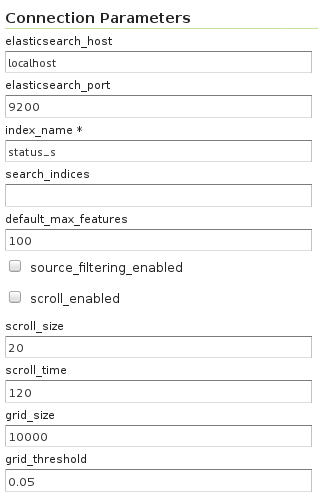
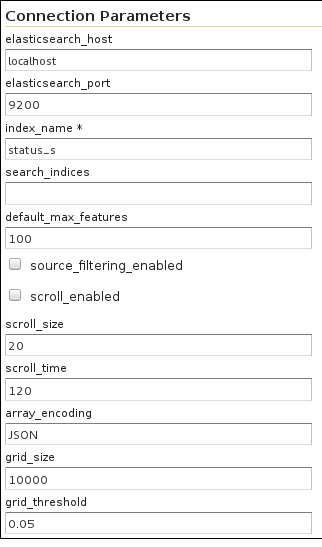
Support multiple array encoding strategies. URL encode array elements when joining string arrays. Bump to GeoServer version to 2.11.1.

Changed region(s): [[0.0, 0.0, 1.0, 0.9861], [0.9623, 0.1793, 0.9906, 0.239]]

diff --git a/gt-elasticsearch/src/main/java/mil/nga/giat/data/elasticsearch/ElasticFeatureReader.java b/gt-elasticsearch/src/main/java/mil/nga/giat/data/elasticsearch/ElasticFeatureReader.java
@@ -7,6 +7,7 @@ package mil.nga.giat.data.elasticsearch;
 import com.fasterxml.jackson.databind.ObjectMapper;
 import com.vividsolutions.jts.geom.Geometry;
 
+import mil.nga.giat.data.elasticsearch.ElasticDataStore.ArrayEncoding;
 import mil.nga.giat.shaded.es.common.joda.Joda;
 import mil.nga.giat.shaded.joda.time.format.DateTimeFormatter;
 
@@ -22,12 +23,16 @@ import org.opengis.feature.simple.SimpleFeatureType;
 import org.opengis.feature.type.AttributeDescriptor;
 
 import java.io.IOException;
+import java.io.UnsupportedEncodingException;
+import java.net.URLEncoder;
+import java.nio.charset.StandardCharsets;
 import java.util.Collections;
 import java.util.Date;
 import java.util.Iterator;
 import java.util.List;
 import java.util.Map;
 import java.util.logging.Logger;
+import java.util.stream.Collectors;
 
 /**
  * FeatureReader access to the Elasticsearch index.
@@ -43,6 +48,8 @@ public class ElasticFeatureReader implements FeatureReader<SimpleFeatureType, Si
     private final float maxScore;
 
     private final ObjectMapper mapper;
+
+    private final ArrayEncoding arrayEncoding;
 
     private SimpleFeatureBuilder builder;
 
@@ -74,6 +81,15 @@ public class ElasticFeatureReader implements FeatureReader<SimpleFeatureType, Si
                 this.aggregationIterator = aggregations.get(aggregationName).getBuckets().iterator();
             }
         }
+
+        if (contentState.getEntry() != null && contentState.getEntry().getDataStore() != null) {
+            final ElasticDataStore dataStore;
+            dataStore = (ElasticDataStore) contentState.getEntry().getDataStore();
+            this.arrayEncoding = dataStore.getArrayEncoding();
+        } else {
+            this.arrayEncoding = ArrayEncoding.valueOf((String) ElasticDataStoreFactory.ARRAY_ENCODING.getDefaultValue());
+        }
+
         this.mapper = new ObjectMapper();
     }
 
@@ -148,15 +164,17 @@ public class ElasticFeatureReader implements FeatureReader<SimpleFeatureType, Si
                 }
             } else if (values.size() == 1) {
                 builder.set(name, values.get(0));
-            } else if (String.class.isAssignableFrom(descriptor.getType().getBinding())) {
-                final StringBuilder valueBuilder = new StringBuilder();
-                for (final Object value : values) {
-                    valueBuilder.append(valueBuilder.length()>0 ? ";" : "");
-                    valueBuilder.append(value);
-                }
-                builder.set(name, valueBuilder.toString());
             } else if (!name.equals("_aggregation")) {
-                builder.set(name, values);
+                Object value = null;
+                switch (arrayEncoding) {
+                    case CSV:
+                        value = values.stream().map(i -> parserUtil.urlEncode(String.valueOf(i)))
+                            .collect(Collectors.joining(","));
+                        break;
+                    default:
+                        value = values;
+                }
+                builder.set(name, value);
             }
         }
 

diff --git a/gt-elasticsearch/src/test/java/mil/nga/giat/data/elasticsearch/ElasticFeatureFilterIT.java b/gt-elasticsearch/src/test/java/mil/nga/giat/data/elasticsearch/ElasticFeatureFilterIT.java
@@ -17,6 +17,8 @@
 
 package mil.nga.giat.data.elasticsearch;
 
+import java.net.URLDecoder;
+import java.nio.charset.StandardCharsets;
 import java.util.Arrays;
 import java.util.HashSet;
 import java.util.List;
@@ -55,6 +57,8 @@ import org.opengis.filter.identity.FeatureId;
 import org.opengis.filter.sort.SortBy;
 import org.opengis.filter.sort.SortOrder;
 import org.opengis.filter.spatial.BBOX;
+
+import mil.nga.giat.data.elasticsearch.ElasticDataStore.ArrayEncoding;
 
 public class ElasticFeatureFilterIT extends ElasticTestSupport {
 
@@ -273,9 +277,46 @@ public class ElasticFeatureFilterIT extends ElasticTestSupport {
             assertEquals(2, feature.getAttributeCount());
             String st = (String) feature.getAttribute("standard_ss");
             // changed from "IEEE 802.11b" in SolrFeatureSourceTest
-            assertTrue(st.startsWith("IEEE 802.11"));
+            assertTrue(st.contains("IEEE 802.11b"));
         } finally {
             iterator.close();
+        }
+    }
+
+    @Test
+    public void testReadStringArrayWithCsvStrategy() throws Exception {
+        init();
+        dataStore.setArrayEncoding(ArrayEncoding.CSV);
+        FilterFactory ff = dataStore.getFilterFactory();
+        PropertyIsEqualTo filter = ff.equals(ff.property("modem_b"), ff.literal(true));
+
+        SimpleFeatureCollection features = featureSource.getFeatures(filter);
+        assertEquals(8, features.size());
+
+        SimpleFeatureIterator iterator = features.features();
+        try {
+            assertTrue(iterator.hasNext());
+            SimpleFeature feature = iterator.next();
+            String st = (String) feature.getAttribute("standard_ss");
+            // changed from "IEEE 802.11b" in SolrFeatureSourceTest
+            assertTrue(URLDecoder.decode(st, StandardCharsets.UTF_8.toString()).startsWith("IEEE 802.11"));
+        } finally {
+            iterator.close();
+        }
+    }
+
+    @Test
+    public void testReadNumericArrayWithCsvStrategy() throws Exception {
+        init();
+        dataStore.setArrayEncoding(ArrayEncoding.CSV);
+        FilterFactory ff = dataStore.getFilterFactory();
+        PropertyIsBetween between = ff.between(ff.property("speed_is"), ff.literal(160), ff.literal(300));
+        SimpleFeatureCollection features = featureSource.getFeatures(between);
+        assertEquals(5, features.size());
+        SimpleFeatureIterator iterator = features.features();
+        while (iterator.hasNext()) {
+            SimpleFeature f = iterator.next();
+            assertFalse(f.getAttribute("speed_is") instanceof List);
         }
     }
 

diff --git a/gt-elasticsearch/src/main/java/mil/nga/giat/data/elasticsearch/ElasticDataStoreFactory.java b/gt-elasticsearch/src/main/java/mil/nga/giat/data/elasticsearch/ElasticDataStoreFactory.java
@@ -7,6 +7,8 @@ package mil.nga.giat.data.elasticsearch;
 import org.geotools.data.DataStore;
 import org.geotools.data.DataStoreFactorySpi;
 
+import mil.nga.giat.data.elasticsearch.ElasticDataStore.ArrayEncoding;
+
 import java.awt.RenderingHints.Key;
 import java.io.IOException;
 import java.io.Serializable;
@@ -41,6 +43,9 @@ public class ElasticDataStoreFactory implements DataStoreFactorySpi {
 
     public static final Param SCROLL_TIME_SECONDS = new Param("scroll_time", Integer.class, "Time to keep the scroll open in seconds (ignored if scroll_enabled=false)", false, 120);
 
+    public static final Param ARRAY_ENCODING = new Param("array_encoding", String.class, "Array encoding strategy. Allowed values are \"JSON\" (keep arrays) " 
+            + " and \"CSV\" (URL encode and join array elements).", false, "JSON");
+
     public static final Param GRID_SIZE = new Param("grid_size", Long.class, "Hint for Geohash grid size (nrow*ncol)", false, 10000l);
 
     public static final Param GRID_THRESHOLD = new Param("grid_threshold",  Double.class, 
@@ -56,6 +61,7 @@ public class ElasticDataStoreFactory implements DataStoreFactorySpi {
             SCROLL_ENABLED,
             SCROLL_SIZE,
             SCROLL_TIME_SECONDS,
+            ARRAY_ENCODING,
             GRID_SIZE,
             GRID_THRESHOLD
     };
@@ -112,6 +118,7 @@ public class ElasticDataStoreFactory implements DataStoreFactorySpi {
         final Integer hostPort = (Integer) getValue(HOSTPORT, params);
         final String indexName = (String) INDEX_NAME.lookUp(params);
         final String searchIndices = (String) SEARCH_INDICES.lookUp(params);
+        final String arrayEncoding = (String) getValue(ARRAY_ENCODING, params);
 
         final ElasticDataStore dataStore = new ElasticDataStore(searchHost, hostPort, indexName, searchIndices);
         dataStore.setDefaultMaxFeatures((Integer) getValue(DEFAULT_MAX_FEATURES, params));
@@ -119,6 +126,7 @@ public class ElasticDataStoreFactory implements DataStoreFactorySpi {
         dataStore.setScrollEnabled((Boolean)getValue(SCROLL_ENABLED, params));
         dataStore.setScrollSize(((Number)getValue(SCROLL_SIZE, params)).longValue());
         dataStore.setScrollTime((Integer)getValue(SCROLL_TIME_SECONDS, params));
+        dataStore.setArrayEncoding(ArrayEncoding.valueOf(arrayEncoding.toUpperCase()));
         dataStore.setGridSize((Long) GRID_SIZE.lookUp(params));
         dataStore.setGridThreshold((Double) GRID_THRESHOLD.lookUp(params));
         return dataStore;

diff --git a/gt-elasticsearch/src/main/java/mil/nga/giat/data/elasticsearch/ElasticParserUtil.java b/gt-elasticsearch/src/main/java/mil/nga/giat/data/elasticsearch/ElasticParserUtil.java
@@ -4,12 +4,18 @@
  */
 package mil.nga.giat.data.elasticsearch;
 
+import java.io.UnsupportedEncodingException;
+import java.net.URLEncoder;
+import java.nio.charset.StandardCharsets;
 import java.util.ArrayList;
 import java.util.Arrays;
 import java.util.List;
 import java.util.Map;
+import java.util.logging.Logger;
 import java.util.regex.Matcher;
 import java.util.regex.Pattern;
+
+import org.geotools.util.logging.Logging;
 
 import com.github.davidmoten.geo.GeoHash;
 import com.github.davidmoten.geo.LatLong;
@@ -28,6 +34,8 @@ import com.vividsolutions.jts.geom.Polygon;
  */
 public class ElasticParserUtil {
 
+    private final static Logger LOGGER = Logging.getLogger(ElasticParserUtil.class);
+
     private static final Pattern GEO_POINT_PATTERN;
     static {
         GEO_POINT_PATTERN = Pattern.compile("(-*\\d*\\.*\\d*?),(-*\\d*\\.*\\d*?)");
@@ -35,8 +43,11 @@ public class ElasticParserUtil {
 
     private final GeometryFactory geometryFactory;
 
+    private boolean unsupportedEncodingMessage;
+
     public ElasticParserUtil() {
         this.geometryFactory = new GeometryFactory();
+        this.unsupportedEncodingMessage = false;
     }
 
     /**
@@ -272,4 +283,15 @@ public class ElasticParserUtil {
         return result;
     }
 
+    public String urlEncode(String value) {
+        try {
+            value = URLEncoder.encode(value, StandardCharsets.UTF_8.toString());
+        } catch (UnsupportedEncodingException e) {
+            if (!unsupportedEncodingMessage) {
+                LOGGER.warning("Unable to encode value(s): " + e);
+                unsupportedEncodingMessage = true;
+            }
+        }
+        return value;
+    }
 }

diff --git a/gt-elasticsearch/src/main/java/mil/nga/giat/data/elasticsearch/ElasticDataStore.java b/gt-elasticsearch/src/main/java/mil/nga/giat/data/elasticsearch/ElasticDataStore.java
@@ -64,9 +64,25 @@ public class ElasticDataStore extends ContentDataStore {
 
     private Integer scrollTime;
 
+    private ArrayEncoding arrayEncoding;
+
     private Long gridSize;
 
     private Double gridThreshold;
+
+    public enum ArrayEncoding {
+
+        /**
+         * Return all arrays without encoding.
+         */
+        JSON,
+
+        /**
+         * URL encode and join string array elements.
+         */
+        CSV
+
+    }
 
     public ElasticDataStore(String searchHost, Integer hostPort, 
             String indexName, String searchIndices) throws IOException {
@@ -102,6 +118,8 @@ public class ElasticDataStore extends ContentDataStore {
 
         layerConfigurations = new ConcurrentHashMap<>();
         docTypes = new HashMap<>();
+
+        arrayEncoding = ArrayEncoding.JSON;
     }
 
     @Override
@@ -246,6 +264,14 @@ public class ElasticDataStore extends ContentDataStore {
 
     public void setScrollTime(Integer scrollTime) {
         this.scrollTime = scrollTime;
+    }
+
+    public ArrayEncoding getArrayEncoding() {
+        return arrayEncoding;
+    }
+
+    public void setArrayEncoding(ArrayEncoding arrayEncoding) {
+        this.arrayEncoding = arrayEncoding;
     }
 
     public Long getGridSize() {

diff --git a/gs-web-elasticsearch/doc/index.rst b/gs-web-elasticsearch/doc/index.rst
@@ -102,6 +102,8 @@ Available data store configuration parameters are summarized in the following ta
      - Number of documents per shard when using the scroll API
    * - scroll_time
      - Search context timeout when using the scroll API
+   * - array_encoding
+     - Array encoding strategy. Allowed values are ``JSON`` (keep arrays) and ``CSV`` (URL encode and join array elements).
    * - grid_size 
      - Hint for Geohash grid size (numRows*numCols)
    * - grid_threshold
@@ -537,6 +539,7 @@ After deploying the customized plugin the new geohash grid computer can be used 
 FAQ
 ---
 
+- By default arrays are returned directly, which is suitable for many output formats including GeoJSON. When using CSV output format with layers containing numeric arrays it's necessary to set the ``array_encoding`` store parameter to ``CSV``. Note however when using the ``CSV`` array encoding that only the first value will be returned by GeoServer in the case of numeric arrays. 
 - When updating from pre-2.11.0 versions of the plugin it may be necessary to reload older layers to enable full aggregation and time support. Missing aggregation data or errors of the form ``IllegalArgumentException: Illegal pattern component`` indicate a layer reload is necessary. In this case the layer must be removed and re-added to GeoServer (e.g. a feature type reload will not be sufficient).
 - Commas in the native query and aggregation body must be escaped with a backslash. Additionally body may need to be URL encoded.
 - Geometry property name in the aggregation SLD RasterSymbolizer must be a valid geometry property in the layer
